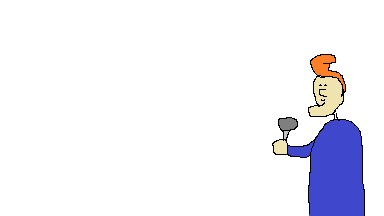
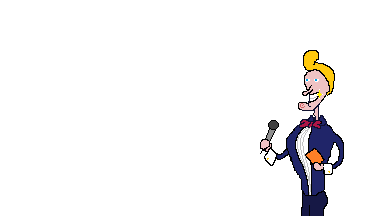
dessins + ajout structure

Changed region(s): [[0.6562, 0.2222, 0.9688, 1.0]]

diff --git a/classEcran.py b/classEcran.py
@@ -8,12 +8,16 @@ class Ecran:
         self.screen = screen
         self.game = game
         self.pixel = pixel
-        self.imgOrigin = pygame.transform.scale(pygame.image.load('assets/ecran/ecran.png'),(384*self.pixel[0],216*self.pixel[1]))
+        self.imgOrigin = pygame.transform.scale(pygame.image.load('assets/ecran/ecran0.png'),(384*self.pixel[0],216*self.pixel[1]))
         self.img = self.imgOrigin
+        self.imgOriginStructure = pygame.transform.scale(pygame.image.load('assets/ecran/structure.png'),(384*self.pixel[0],216*self.pixel[1]))
+        self.imgStructure = self.imgOrigin
 
     def update(self):
         """cette fonction met à jour l'affichage et la position des spectateurs"""
         self.screen.blit(self.img, (self.pixel[0]*192 - self.img.get_width()/2, self.pixel[1]*108 - self.img.get_height()/2 + 68*self.pixel[1]/100*self.game.zoom))
+        self.screen.blit(self.imgStructure, (self.pixel[0]*192 - self.img.get_width()/2, self.pixel[1]*108 - self.img.get_height()/2 + 68*self.pixel[1]/100*self.game.zoom))
 
     def zoom(self, n):
         self.img = pygame.transform.rotozoom(self.imgOrigin,0,1+(n*(2.5/255)))
+        self.imgStructure = pygame.transform.rotozoom(self.imgOriginStructure,0,1+(n*(2.5/255)))

diff --git a/classGame.py b/classGame.py
@@ -1,3 +1,4 @@
+from turtle import update
 import pygame
 from classPresentateur import Presentateur
 from classEcran import Ecran
@@ -27,6 +28,8 @@ class Game:
         self.presentateur.zoom(n)
         
     def update(self):
+        #if self.zoom < 100:
+        #    self.updateZoom(self.zoom+3)
         self.screen.blit(self.background,(0,0))
         self.ecran.update()
         self.spectateur.update()
